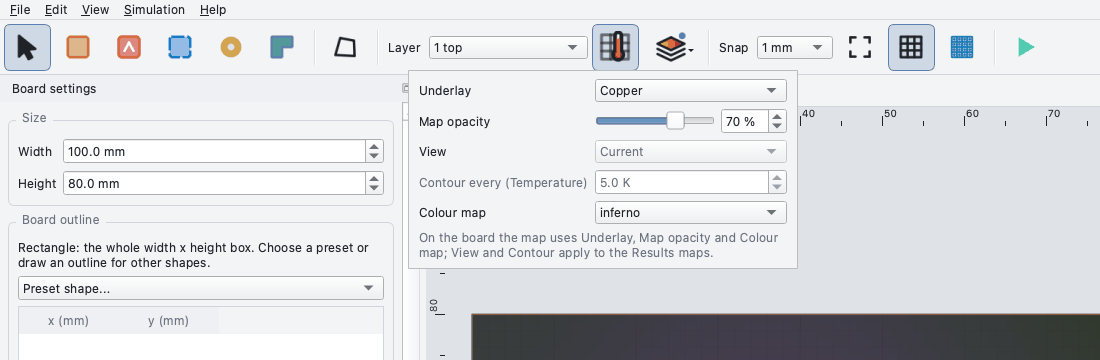
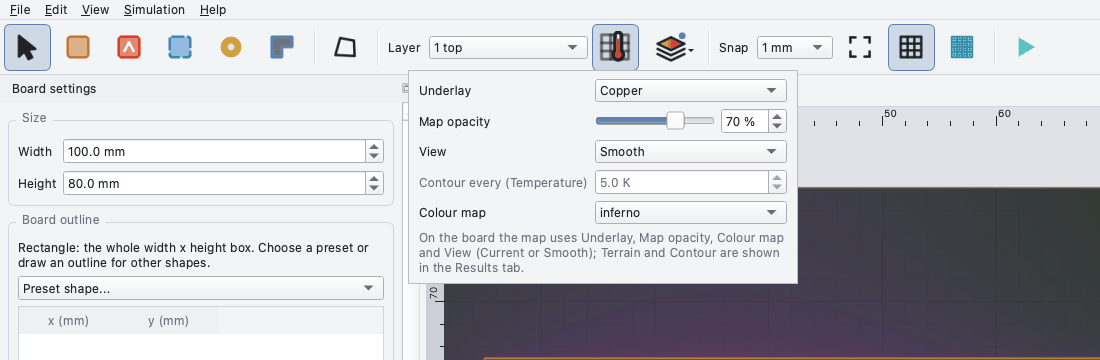
Interpolate the temperatures for Smooth on the board
The first fix only set Qt's smooth pixmap scaling, which blends the colours
of the cells (colours that are not on the bar) and is not what Smooth means
in the Results maps. The canvas now interpolates the temperatures with a
cubic spline on a grid up to 8 times finer (at most 2048 pixels a side,
cells off the board filled with the nearest value and kept transparent),
then colours them. About 0.1 s for 800 x 600 cells.

Also regenerate the Display popover screenshot, which still showed the
View greyed (its caption had been changed), make the screenshot script
show Smooth there, fix a stale comment and mark the entries reviewed.

Claude-Session: https://claude.ai/code/session_01XgeLDd5tWg6CEJL9TQpCpU

diff --git a/pcbthermal/help/index.html b/pcbthermal/help/index.html
@@ -315,7 +315,7 @@ The power coefficient and the heatsink on the package apply to the steady-state 
 
 <h2 id="imported">14. Imported copper (masks from Gerber files)</h2>
 <p><b>The temperature map on the board.</b> The <b>Map</b> button of the tool bar (the thermometer over a grid; <kbd>T</kbd>; also <b>View - Temperature map on the board</b>) paints the result over the board you are editing. It is <b>off</b> by default and greyed (tooltip <i>Run a simulation first</i>) until a result exists; after a run it is enabled but still off. Switched on, it shows the map of the <b>Model of the Temperature tab</b> (change the model there and the map follows; the Gradients tab has its own model list) with the colour limits of that tab, on the layer chosen in the <b>Layer</b> box (change the layer and the map follows; with <i>All layers</i> in Temperature the board shows the last single layer). The first edit of the design makes the result outdated: the map leaves the board and the button greys with the tooltip <i>The result is outdated: run the simulation again</i>.</p>
-<p>How it is drawn is the <b>Display</b> choice (Underlay, Map opacity, Colour map and View apply on the board; View offers Current and Smooth there, while Terrain and Contour every are greyed, the Terrain entry saying in its tooltip that it is shown in the Results tab, and a Terrain chosen in the Results is drawn as Current on the board). A <b>card</b> at the top left of the board names the model (FVM, FDM, Lumped, Analytic or 3D solid) in the accent colour, with a small arrow: <b>click the name</b> to open a list of the models of the result and change the model (the same <b>Model</b> choice as in Results - Temperature, not a second one; a model that cannot be drawn on this board stays in the list, greyed, with the reason; from the keyboard, <kbd>M</kbd> or <b>View - Model of the map…</b> opens the same list). The card gives two lines: a red ring with <b>max</b> and a blue ring with <b>min</b>, the highest and lowest temperature of the layer shown (the two ends of the colour bar, in °C with one decimal, over the cells on the board). The same two small rings mark the hottest and the coolest point on the map; they carry no text, so the names of the elements stay readable. A small colour bar with the unit (°C) and round tick values sits in a free strip beside the board (the board is fitted leaving it room, and the bar moves aside rather than cover the board or the scale bar); the cells off the outline of the board are transparent (the same cells that the Results map leaves blank). While the map is on the board over Image, the background image shows at 100 % and the opacity sets only how much of the map covers it; with the map off the image keeps its own stored opacity; the zones and the imported copper are always drawn by the editor. The stretched Lumped or Analytic map of a board with an outline cannot be drawn on the real board: the card then shows only the model name and the note, for example <i>Lumped: not drawn on an outline board (stretched map)</i>, in the alert colour, with no colour bar and no rings.</p>
+<p>How it is drawn is the <b>Display</b> choice (Underlay, Map opacity, Colour map and View apply on the board; View offers Current and Smooth there, Smooth interpolating the temperatures between the cells as in the Results maps, while Terrain and Contour every are greyed, the Terrain entry saying in its tooltip that it is shown in the Results tab, and a Terrain chosen in the Results is drawn as Current on the board). A <b>card</b> at the top left of the board names the model (FVM, FDM, Lumped, Analytic or 3D solid) in the accent colour, with a small arrow: <b>click the name</b> to open a list of the models of the result and change the model (the same <b>Model</b> choice as in Results - Temperature, not a second one; a model that cannot be drawn on this board stays in the list, greyed, with the reason; from the keyboard, <kbd>M</kbd> or <b>View - Model of the map…</b> opens the same list). The card gives two lines: a red ring with <b>max</b> and a blue ring with <b>min</b>, the highest and lowest temperature of the layer shown (the two ends of the colour bar, in °C with one decimal, over the cells on the board). The same two small rings mark the hottest and the coolest point on the map; they carry no text, so the names of the elements stay readable. A small colour bar with the unit (°C) and round tick values sits in a free strip beside the board (the board is fitted leaving it room, and the bar moves aside rather than cover the board or the scale bar); the cells off the outline of the board are transparent (the same cells that the Results map leaves blank). While the map is on the board over Image, the background image shows at 100 % and the opacity sets only how much of the map covers it; with the map off the image keeps its own stored opacity; the zones and the imported copper are always drawn by the editor. The stretched Lumped or Analytic map of a board with an outline cannot be drawn on the real board: the card then shows only the model name and the note, for example <i>Lumped: not drawn on an outline board (stretched map)</i>, in the alert colour, with no colour bar and no rings.</p>
 <p><img src="editor_overlay.png" alt="Editor with the temperature painted on the board" style="max-width:100%"><br><i>The <b>Map</b> button (<kbd>T</kbd>): the map of the Temperature tab over the 4-layer example board, with the card (model, max and min with their rings), the colour bar in the strip beside the board and the <b>Map</b> and <b>Display</b> buttons in the tool bar.</i></p>
 <p><img src="display_popover.png" alt="The Display popover" style="max-width:100%"><br><i>The <b>Display</b> popover opened from the Board tab: Underlay, Map opacity, Colour map and View (Current, Smooth) are active, Terrain and Contour are greyed and the note says why.</i></p>
 <p><b>On the Board tab</b>, <b>View - Imported copper</b> (on by default) draws the copper pattern of the layer chosen in the layer box under the elements, in the copper colour; it follows the layer box, is drawn from a reduced copy made once (at most 4096 pixels on its longest side, so a 290 mm board is drawn whole at its 0.1 mm pixel and panning and zooming stay light) and does not change what the models read. <b>View - Element names</b> (on by default) writes the names of the zones, heatsinks and heaters of the active layer on the board; on an imported board a part name is centred on its part and, when it is wider than the part on the screen or would cover another name, appears when you zoom in (the selected part always shows its name). <b>View - Background image</b> puts a photo or layout drawing under the board so that you can trace it by hand; its dialog has the file, the position, the size, <b>Fit to board</b> and <b>Remove image</b> (the opacity of the temperature map over the image is the Map opacity of the Display panel, above; on the Board tab the image itself is drawn at half opacity, or at the opacity stored by an older version). It is for boards drawn by hand: in a project that comes from Gerber files, which already give the exact copper, the menu entry is disabled (its tooltip says why). A project saved by an older version with both keeps its image, which is still drawn; the entry then opens a dialog that can only remove the image.</p>

diff --git a/pcbthermal/gui/canvas.py b/pcbthermal/gui/canvas.py
@@ -23,7 +23,9 @@ from . import theme as th
 from ..numfmt import num
 from ..package import background_bytes as package_background_bytes
 
-COPPER_DISPLAY_PIXELS = 4096           # Longest side (pixels) of the reduced mask that is drawn under the elements (4096 keeps the 0.1 mm pixel of the 285 x 95 mm CO60 whole: 2850 x 951)
+OVERLAY_SMOOTH_FACTOR = 8              # View Smooth on the board: the temperatures are interpolated on a grid this many times finer than the cells ...
+OVERLAY_SMOOTH_PIXELS = 2048           # ... with at most this many pixels on the longest side (a 0.25 mm cell on a 200 mm board: 2 times, 6 MB of colours)
+COPPER_DISPLAY_PIXELS = 4096          # Longest side (pixels) of the reduced mask that is drawn under the elements (4096 keeps the 0.1 mm pixel of the 285 x 95 mm CO60 whole: 2850 x 951)
 _GRID_STEPS = (0.1, 0.25, 0.5, 1, 2, 5, 10, 20, 50, 100, 200)
 
 
@@ -620,7 +622,8 @@ class BoardView(QGraphicsView):
         @param nodes True if the field holds values at grid points (the first sample sits at 0, not at half a cell).
         @param mask Boolean array (ny, nx), True for the cells on the board; the others are transparent (None: every cell is drawn).
         @param unit Unit written on the colour bar.
-        @param smooth True for the View Smooth: the cells are interpolated (bilinear) when the map is scaled, False for the cells as solved.
+        @param smooth True for the View Smooth: the temperatures are interpolated between the cells (cubic spline on a grid OVERLAY_SMOOTH_FACTOR times finer,
+                      at most OVERLAY_SMOOTH_PIXELS a side), as the Smooth of the Results maps, and the picture is scaled smoothly; False for the cells as solved.
         """
         from matplotlib import colormaps
         from .fieldscale import colour_limits
@@ -630,15 +633,27 @@ class BoardView(QGraphicsView):
         lo, hi = colour_limits(field, vmin is None or vmax is None, vmin, vmax)
         # Cells without a value (NaN) or off the outline get alpha 0 so that the board shows through
         ok = np.isfinite(field) if mask is None else (np.isfinite(field) & np.asarray(mask, bool))
-        norm = np.clip((np.nan_to_num(field, nan=lo) - lo) / max(hi - lo, 1e-9), 0, 1)
+        values, k = field, 1
+        if smooth and ok.any():
+            # Smooth means what it means in the Results maps: the TEMPERATURES are interpolated (cubic spline, the cells off the board filled with the
+            # nearest value so they do not eat the kernel), then coloured; blending the colours of the cells would draw colours that are not on the bar
+            from scipy import ndimage
+            k = int(max(1, min(OVERLAY_SMOOTH_FACTOR, OVERLAY_SMOOTH_PIXELS // max(nx, ny))))
+            idx = ndimage.distance_transform_edt(~ok, return_distances=False, return_indices=True)
+            filled = np.asarray(field, np.float32)[tuple(idx)]
+            values = ndimage.zoom(filled, k, order=3, mode="nearest", grid_mode=True) if k > 1 else filled
+            ok = np.kron(ok, np.ones((k, k), bool))                        # The cells on the board keep their edges (Current draws the same)
+        norm = np.clip((np.nan_to_num(values, nan=lo) - lo) / max(hi - lo, 1e-9), 0, 1)
         rgba = (colormaps[cmap](norm) * 255).astype(np.uint8)
         rgba[..., 3] = np.where(ok, 255, 0)
         rgba = np.ascontiguousarray(rgba)
-        img = QImage(rgba.data, nx, ny, 4 * nx, QImage.Format_RGBA8888).copy()
+        h, w = rgba.shape[:2]
+        img = QImage(rgba.data, w, h, 4 * w, QImage.Format_RGBA8888).copy()
         item = QGraphicsPixmapItem(QPixmap.fromImage(img))
-        tr = QTransform().scale(dx * 1000.0, dy * 1000.0)                 # Row 0 sits at y = 0
+        sx, sy = dx * 1000.0 / k, dy * 1000.0 / k                          # One pixel is a cell, or 1/k of a cell when smoothed
+        tr = QTransform().scale(sx, sy)                                    # Row 0 sits at y = 0
         if nodes:
-            tr = QTransform().translate(-0.5 * dx * 1000.0, -0.5 * dy * 1000.0).scale(dx * 1000.0, dy * 1000.0)
+            tr = QTransform().translate(-0.5 * dx * 1000.0, -0.5 * dy * 1000.0).scale(sx, sy)
         item.setTransform(tr)
         item.setTransformationMode(Qt.SmoothTransformation if smooth else Qt.FastTransformation)
         item.setOpacity(float(opacity))

diff --git a/tests/test_display_control.py b/tests/test_display_control.py
@@ -636,3 +636,40 @@ def test_the_view_can_be_chosen_on_the_board_and_is_kept(qtbot, tmp_path, sim):
     win.doc.stack.undo()
     win.doc.stack.redo()
     assert len(win.doc.problem.heaters) == n
+
+
+def test_smooth_on_the_board_interpolates_the_temperatures_like_the_results_map(qtbot, tmp_path, sim):
+    """!
+    @brief Smooth on the board means what it means in the Results maps: the temperatures are interpolated between the cells and then coloured, so every
+           pixel is a colour of the bar (blending the colours of the cells is not), and the picture covers the same board as Current.
+    @param qtbot pytest-qt fixture.
+    @param tmp_path Temporary folder.
+    @param sim Simulation fixture.
+    """
+    from matplotlib import colormaps
+
+    from pcbthermal.gui import canvas as canvas_mod
+
+    win = _win(qtbot, tmp_path)
+    _with_result(win, sim)
+    win.tabs.setCurrentIndex(TAB_BOARD)
+    win.a_overlay.setChecked(True)
+    item = win.canvas._overlay
+    cur_rect, (nx, ny) = item.sceneBoundingRect(), (item.pixmap().width(), item.pixmap().height())
+    win.display.set_view("smooth")
+    item = win.canvas._overlay
+    k = item.pixmap().width() // nx
+    assert k == min(canvas_mod.OVERLAY_SMOOTH_FACTOR, canvas_mod.OVERLAY_SMOOTH_PIXELS // max(nx, ny)) and k > 1
+    assert item.pixmap().height() == k * ny
+    r = item.sceneBoundingRect()
+    assert abs(r.width() - cur_rect.width()) < 1e-6 and abs(r.height() - cur_rect.height()) < 1e-6 and abs(r.left() - cur_rect.left()) < 1e-6
+    # every pixel is a colour of the bar (a nearest entry of the 256-colour table within rounding)
+    img = item.pixmap().toImage().convertToFormat(item.pixmap().toImage().Format.Format_RGBA8888)
+    px = np.frombuffer(img.constBits(), np.uint8).reshape(img.height(), img.bytesPerLine())[:, : 4 * img.width()].reshape(img.height(), img.width(), 4)
+    rgb = px[px[..., 3] > 0][:, :3].astype(int)
+    table = (colormaps[win.display.cmap](np.linspace(0, 1, 256))[:, :3] * 255).astype(int)
+    far = np.abs(rgb[:, None, :] - table[None, :, :]).sum(axis=2).min(axis=1)
+    assert far.max() <= 6
+    # back to Current: one pixel per cell again
+    win.display.set_view("current")
+    assert win.canvas._overlay.pixmap().width() == nx

diff --git a/pcbthermal/gui/display.py b/pcbthermal/gui/display.py
@@ -357,7 +357,7 @@ class DisplayPopover(QFrame):
             self.contour.setValue(s.contour_temp)
         self.contour.blockSignals(False)
         self.contour_label.setText("Contour every (Gradients)" if grad else "Contour every (Temperature)")
-        # What applies where: the editor map has no View or Contour; the Animation has no Terrain; the Contour step only matters with Terrain
+        # What applies where: the editor map has no Terrain or Contour; the Animation has no Terrain; the Contour step only matters with Terrain
         editor, anim = ctx == "editor", ctx == "animation"
         # View stays usable on the board (Current and Smooth); only Terrain is greyed, with the reason as the tooltip of the entry
         self.view.setEnabled(True)

diff --git a/examples/make_screenshots.py b/examples/make_screenshots.py
@@ -437,8 +437,9 @@ def main_views(out_dir, board_dir):
         win.a_overlay.setChecked(True)
         win.canvas.fit()
         save(win, "editor_overlay.png")
-        # The Display popover opened from the Board tab, drawn over the window (it is a separate window, so it is pasted in at its place) and cropped to the top
-        win.display.set_view("current")
+        # The Display popover opened from the Board tab, drawn over the window (it is a separate window, so it is pasted in at its place) and cropped to the top;
+        # the View shows Smooth, which works on the board (Terrain is the greyed entry)
+        win.display.set_view("smooth")
         win.display.set_kind("copper")
         win._toggle_display_popover()
         app.processEvents()

diff --git a/CLAUDE.md b/CLAUDE.md
@@ -358,7 +358,7 @@ Release 2.5.1 (2026-11-06) is done: the maintainer tested it and approved; `deve
 
 ## Decisions Log
 
-- **View on the board** (`fix/board-overlay-view-modes`, display only; created FROM `feature/integration-260` and not from `develop`, on purpose, because the display code of 2.5.1+ lives there; reviewer pending): the maintainer's report that the View could not leave Current with the map on the board was reproduced: the combo was disabled for the editor context by design (2.5.1). Now enabled with Current and Smooth (`canvas.set_overlay(smooth=)`); Terrain greyed with an explanatory tooltip and drawn as Current on the board (contour lines on the canvas are not implemented).
+- **View on the board** (`fix/board-overlay-view-modes`, display only; created FROM `feature/integration-260` and not from `develop`, on purpose, because the display code of 2.5.1+ lives there; reviewed): the maintainer's report that the View could not leave Current with the map on the board was reproduced: the combo was disabled for the editor context by design (2.5.1). Now enabled with Current and Smooth (`canvas.set_overlay(smooth=)`; **review**: the first version only set Qt's smooth pixmap scaling, which blends the colours of the cells and is not the Smooth of the Results maps; now the temperatures are interpolated by a cubic spline on a grid up to 8 times finer, at most 2048 pixels a side, then coloured); Terrain greyed with an explanatory tooltip and drawn as Current on the board (contour lines on the canvas are not implemented).
 
 - **2.6.0 integration branch** (`feature/integration-260`, built from `develop` 40d2fb71 in its own worktree; local only, no version bump, nothing merged into `develop` or `main`, no tag, no push; `feature/via-star-coupling` NOT merged, no-go by its review): merged with `--no-ff` one at a time, keeping both sides of every document conflict, `fix/lumped-first-ring` + `research/lumped-ring-uniform-deficit`, `feature/project-package`, `feature/bom-role-and-close-hook` (**then the BOM role was reverted again by the maintainer's decision, only the hook and the package test stay**) + `research/bom-role-and-close-hook`, `feature/single-layer-and-model-name`, `fix/exact-board-cover`, `fix/cut-cell-aperture-film` + `research/cut-cell-links`, `fix/face-down-convection` + `research/face-down-convection`, `feature/solid3d-slabs-by-thickness`, `feature/analytic-edge-and-local-transient`, `fix/solid3d-sliver-cells` (tip 5586d1f8), `research/published-cases-followup`, `research/bochkov-robin-check`. **Decisions of the merge**: one copy of `geometry.face_apertures` and `signed_distance_to_outline` (the k-d tree version with `cover` of the cut-cell branch; the sliver branch's block-bounded copy was dropped, its memory test passes without `DISTANCE_BLOCK` at under 100 MB on 20 000 sides); validation sections 31 (Lumped first ring), 32 (cut-cell links), 33 (3D solid sliver cells, renumbered from 31); roadmap id A23 for the Lumped near-edge item of `lumped-ring-uniform-deficit` (A21 and A22 belong to `published-cases-followup`); the licence header added to four research `.gitignore` files that predate the rule; three test expectations that follow the edge film of the cut-cell branch (plain plate 88.3307 -> 88.3459 K, small bare part 439.5514 -> 439.5562 K, Analytic per-layer bound -4.5 -> -5.5 %). **Open, left on purpose**: the pending frozen-number files overlap (`example_cut_to_T|analytic` in `analytic-per-layer-edge` and `exact-board-cover-reading-cut-t`; `part_across_outline` and `round_outline` solid3d in `exact-board-cover-solvers` and `solid3d-sliver-cells`, 15 keys), so `tests/regression` fails 4 tests until the combined refreeze; the whole battery was not run. **Second round of the integration** (same branch): merged `fix/hostile-outline-and-rich-text` (trivial), `fix/via-barrel-and-rim-uncoupling` (conflict in `analytic.py`: the via loop had moved into `_local_conductances`, where the barrel length `sh['d_barrel']` is now read; the total via conductance of the local and the modal path agree to the last digit on the example board), `fix/lumped-near-edge-warning` (the checks of the near-edge and small-part warnings join `check_input` after the outline guard; validation 35 says that the first-ring cap changes its `develop` rows) and the research branches `via-contact-geometry`, `lumped-near-edge` and `laminate-edge-band` (the program untouched by all three). Validation numbers: 34 = via barrel, 35 = Lumped near an edge, 36 reserved for the laminate edge band. Roadmap: A20 and A22 take the reviewed text of `via-contact-geometry`; the two entries under A23 (the uniform-deficit study and the near-edge study) are ONE item with both evidence lines, A21 is the Seri Lee observation. `fix/laminate-edge-band` is not merged (still in review). The pending frozen-number files now overlap in 42 keys (via-barrel with cut-cell-aperture-film 20, analytic-per-layer-edge 9, exact-board-cover-reading-cut-t 6, analytic-local-transient 4, plus the earlier solid3d pair 6, minus shared keys): left for the combined refreeze.
 

diff --git a/docs/versions.md b/docs/versions.md
@@ -255,7 +255,7 @@ Numbering rule (maintainer): only fixes give a patch number, any feature makes t
 
 **Model fix in progress** (2.6.0, `fix/lumped-first-ring`, adopts `research/lumped-ring-uniform-deficit`; reviewed): the first ring of the Lumped network is at most one equivalent radius of the footprint wide (a 1 mm part on 200 x 150 mm uniform sheet -25.3 % becomes +2.5 % of the FVM; new hot cases up to +12 % for parts of aspect ratio 3, and +27 % for a part smaller than an eighth of a cell across cell edges, `validation.md` 31.6). No frozen number moves, no pending file. Tests `tests/test_lumped_first_ring.py`; theory 5, validation 31. Left (Planned): a first link from the footprint's own logarithmic potential and a ring 1 on a finer raster, the near-edge deficit of the Lumped (4 to 15 % cool), and the 1.5-cells variant (`research/lumped-ring-uniform-deficit/INTEGRATION.md` 4).
 
-**Display fix done** (2.6.0, `fix/board-overlay-view-modes`, display only, reviewer pending): the View combo of the Display panel was greyed on the Board (deliberate in 2.5.1), so with the map on the board the user was stuck on Current. Now Current and Smooth work there (`canvas.set_overlay(smooth=)`, Qt smooth transformation of the cell image); Terrain stays greyed with the tooltip *Terrain is shown in the Results tab* and is drawn as Current on the board. Contour lines on the canvas overlay are not drawn (open). Tests `tests/test_display_control.py`.
+**Display fix done** (2.6.0, `fix/board-overlay-view-modes`, display only, reviewed): the View combo of the Display panel was greyed on the Board (deliberate in 2.5.1), so with the map on the board the user was stuck on Current. Now Current and Smooth work there (`canvas.set_overlay(smooth=)`: the temperatures are interpolated by a cubic spline on a grid up to `OVERLAY_SMOOTH_FACTOR` = 8 times finer, at most `OVERLAY_SMOOTH_PIXELS` = 2048 a side, the cells off the board filled with the nearest value and kept transparent, then coloured and scaled smoothly: the meaning of Smooth in the Results maps; about 0.1 s for 800 x 600 cells; the first version only blended the colours of the cells, corrected by the review); Terrain stays greyed with the tooltip *Terrain is shown in the Results tab* and is drawn as Current on the board. Contour lines on the canvas overlay are not drawn (open: Terrain on the board needs the relief picture and contour lines whose width does not grow with the zoom, about 80 to 120 lines; planned, not in this fix). Tests `tests/test_display_control.py` (`test_the_view_can_be_chosen_on_the_board_and_is_kept`, `test_smooth_on_the_board_interpolates_the_temperatures_like_the_results_map`).
 
 **Display and project features** (2.6.0; each its own `feature/` branch; tooltips, user guide and `tests/test_help.py` in the same commit):
 

diff --git a/CHANGELOG.md b/CHANGELOG.md
@@ -7,7 +7,7 @@ MAJOR for incompatible changes, MINOR for new features, PATCH for fixes. Release
 
 ### Fixed (`fix/board-overlay-view-modes`; display only)
 
-- **The View of the Display panel works on the board**: with the temperature map on the board the View combo was greyed and stuck on Current (a deliberate choice of 2.5.1, which left the user with no way to change it). On the Board it now offers Current and Smooth (the map is interpolated when scaled); Terrain stays greyed with the tooltip *Terrain is shown in the Results tab*, and a Terrain chosen in the Results is drawn as Current on the board.
+- **The View of the Display panel works on the board**: with the temperature map on the board the View combo was greyed and stuck on Current (a deliberate choice of 2.5.1, which left the user with no way to change it). On the Board it now offers Current and Smooth (the temperatures are interpolated between the cells and then coloured, as in the Results maps; the reviewer replaced a first version that only blended the colours of the cells when the picture was scaled, which draws colours that are not on the bar); Terrain stays greyed with the tooltip *Terrain is shown in the Results tab*, and a Terrain chosen in the Results is drawn as Current on the board.
 
 ### Fixed (`fix/hostile-outline-and-rich-text`; no result moves)
 
